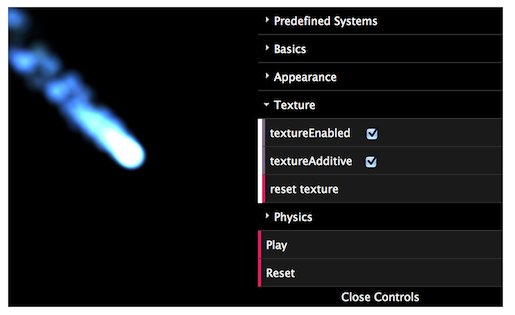
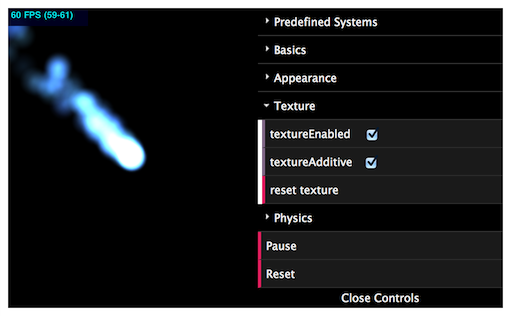
added stats.js in for fps

diff --git a/public/javascripts/third/stats.min.js b/public/javascripts/third/stats.min.js
@@ -1,0 +1,6 @@
+// stats.js - http://github.com/mrdoob/stats.js
+var Stats=function(){var l=Date.now(),m=l,g=0,n=Infinity,o=0,h=0,p=Infinity,q=0,r=0,s=0,f=document.createElement("div");f.id="stats";f.addEventListener("mousedown",function(b){b.preventDefault();t(++s%2)},!1);f.style.cssText="width:80px;opacity:0.9;cursor:pointer";var a=document.createElement("div");a.id="fps";a.style.cssText="padding:0 0 3px 3px;text-align:left;background-color:#002";f.appendChild(a);var i=document.createElement("div");i.id="fpsText";i.style.cssText="color:#0ff;font-family:Helvetica,Arial,sans-serif;font-size:9px;font-weight:bold;line-height:15px";
+i.innerHTML="FPS";a.appendChild(i);var c=document.createElement("div");c.id="fpsGraph";c.style.cssText="position:relative;width:74px;height:30px;background-color:#0ff";for(a.appendChild(c);74>c.children.length;){var j=document.createElement("span");j.style.cssText="width:1px;height:30px;float:left;background-color:#113";c.appendChild(j)}var d=document.createElement("div");d.id="ms";d.style.cssText="padding:0 0 3px 3px;text-align:left;background-color:#020;display:none";f.appendChild(d);var k=document.createElement("div");
+k.id="msText";k.style.cssText="color:#0f0;font-family:Helvetica,Arial,sans-serif;font-size:9px;font-weight:bold;line-height:15px";k.innerHTML="MS";d.appendChild(k);var e=document.createElement("div");e.id="msGraph";e.style.cssText="position:relative;width:74px;height:30px;background-color:#0f0";for(d.appendChild(e);74>e.children.length;)j=document.createElement("span"),j.style.cssText="width:1px;height:30px;float:left;background-color:#131",e.appendChild(j);var t=function(b){s=b;switch(s){case 0:a.style.display=
+"block";d.style.display="none";break;case 1:a.style.display="none",d.style.display="block"}};return{REVISION:11,domElement:f,setMode:t,begin:function(){l=Date.now()},end:function(){var b=Date.now();g=b-l;n=Math.min(n,g);o=Math.max(o,g);k.textContent=g+" MS ("+n+"-"+o+")";var a=Math.min(30,30-30*(g/200));e.appendChild(e.firstChild).style.height=a+"px";r++;b>m+1E3&&(h=Math.round(1E3*r/(b-m)),p=Math.min(p,h),q=Math.max(q,h),i.textContent=h+" FPS ("+p+"-"+q+")",a=Math.min(30,30-30*(h/100)),c.appendChild(c.firstChild).style.height=
+a+"px",m=b,r=0);return b},update:function(){l=this.end()}}};

diff --git a/public/javascripts/pjs.js b/public/javascripts/pjs.js
@@ -47,11 +47,27 @@
 	var particleSystem;
 	var canvas;
 	var context;
+	var stats;
+
+	function initStats(statsContainerId) {
+		stats = new Stats();
+		stats.setMode(0);
+
+		stats.domElement.style.position = 'absolute';
+		stats.domElement.style.top = 0;
+		stats.domElement.style.left = 0;
+
+		document.getElementById(statsContainerId).appendChild(stats.domElement);
+
+		var graph = document.getElementById('fpsGraph');
+		graph.parentNode.removeChild(graph);
+	}
 
 	function draw(timestamp) {
 		if (paused) {
 			return;
 		}
+		stats.begin();
 
 		var delta = timestamp - (lastTimestamp || timestamp);
 		lastTimestamp = timestamp;
@@ -65,6 +81,7 @@
 		pjs.Renderer.render(context, particleSystem.particles);
 
 		requestAnimationFrame(draw);
+		stats.end();
 	}
 
 	pjs.onReady = function() {
@@ -95,6 +112,7 @@
 
 			new pjs.ui.Builder('guiContainer', particleSystem, canvas, pjs, getUrlParam('ui'), includeTransformFn);
 			document.getElementById('canvasContainer').appendChild(canvas);
+			initStats('canvasContainer');
 
 			draw(new Date().getTime());
 		};

diff --git a/public/index.debug.html b/public/index.debug.html
@@ -6,8 +6,12 @@
 	<style>
 		#canvasContainer {
 			float: left;
+			position: relative;
 		}
 		#guiContainerContainer {
+			float: left;
+		}
+		#statsContainer {
 			float: left;
 		}
 	</style>
@@ -25,7 +29,9 @@
 	<script type="text/javascript" src="javascripts/particlesystem/Renderer.js"></script>
 	<script type="text/javascript" src="javascripts/particlesystem/PredefinedSystems.js"></script>
 
+	<script type="text/javascript" src="javascripts/third/stats.min.js"></script>
 	<script type="text/javascript" src="javascripts/third/dat.gui.js"></script>
+
 	<script type="text/javascript" src="javascripts/ui/TextureLoader.js"></script>
 	<script type="text/javascript" src="javascripts/ui/Parser.js"></script>
 	<script type="text/javascript" src="javascripts/ui/FullConfig.js"></script>
